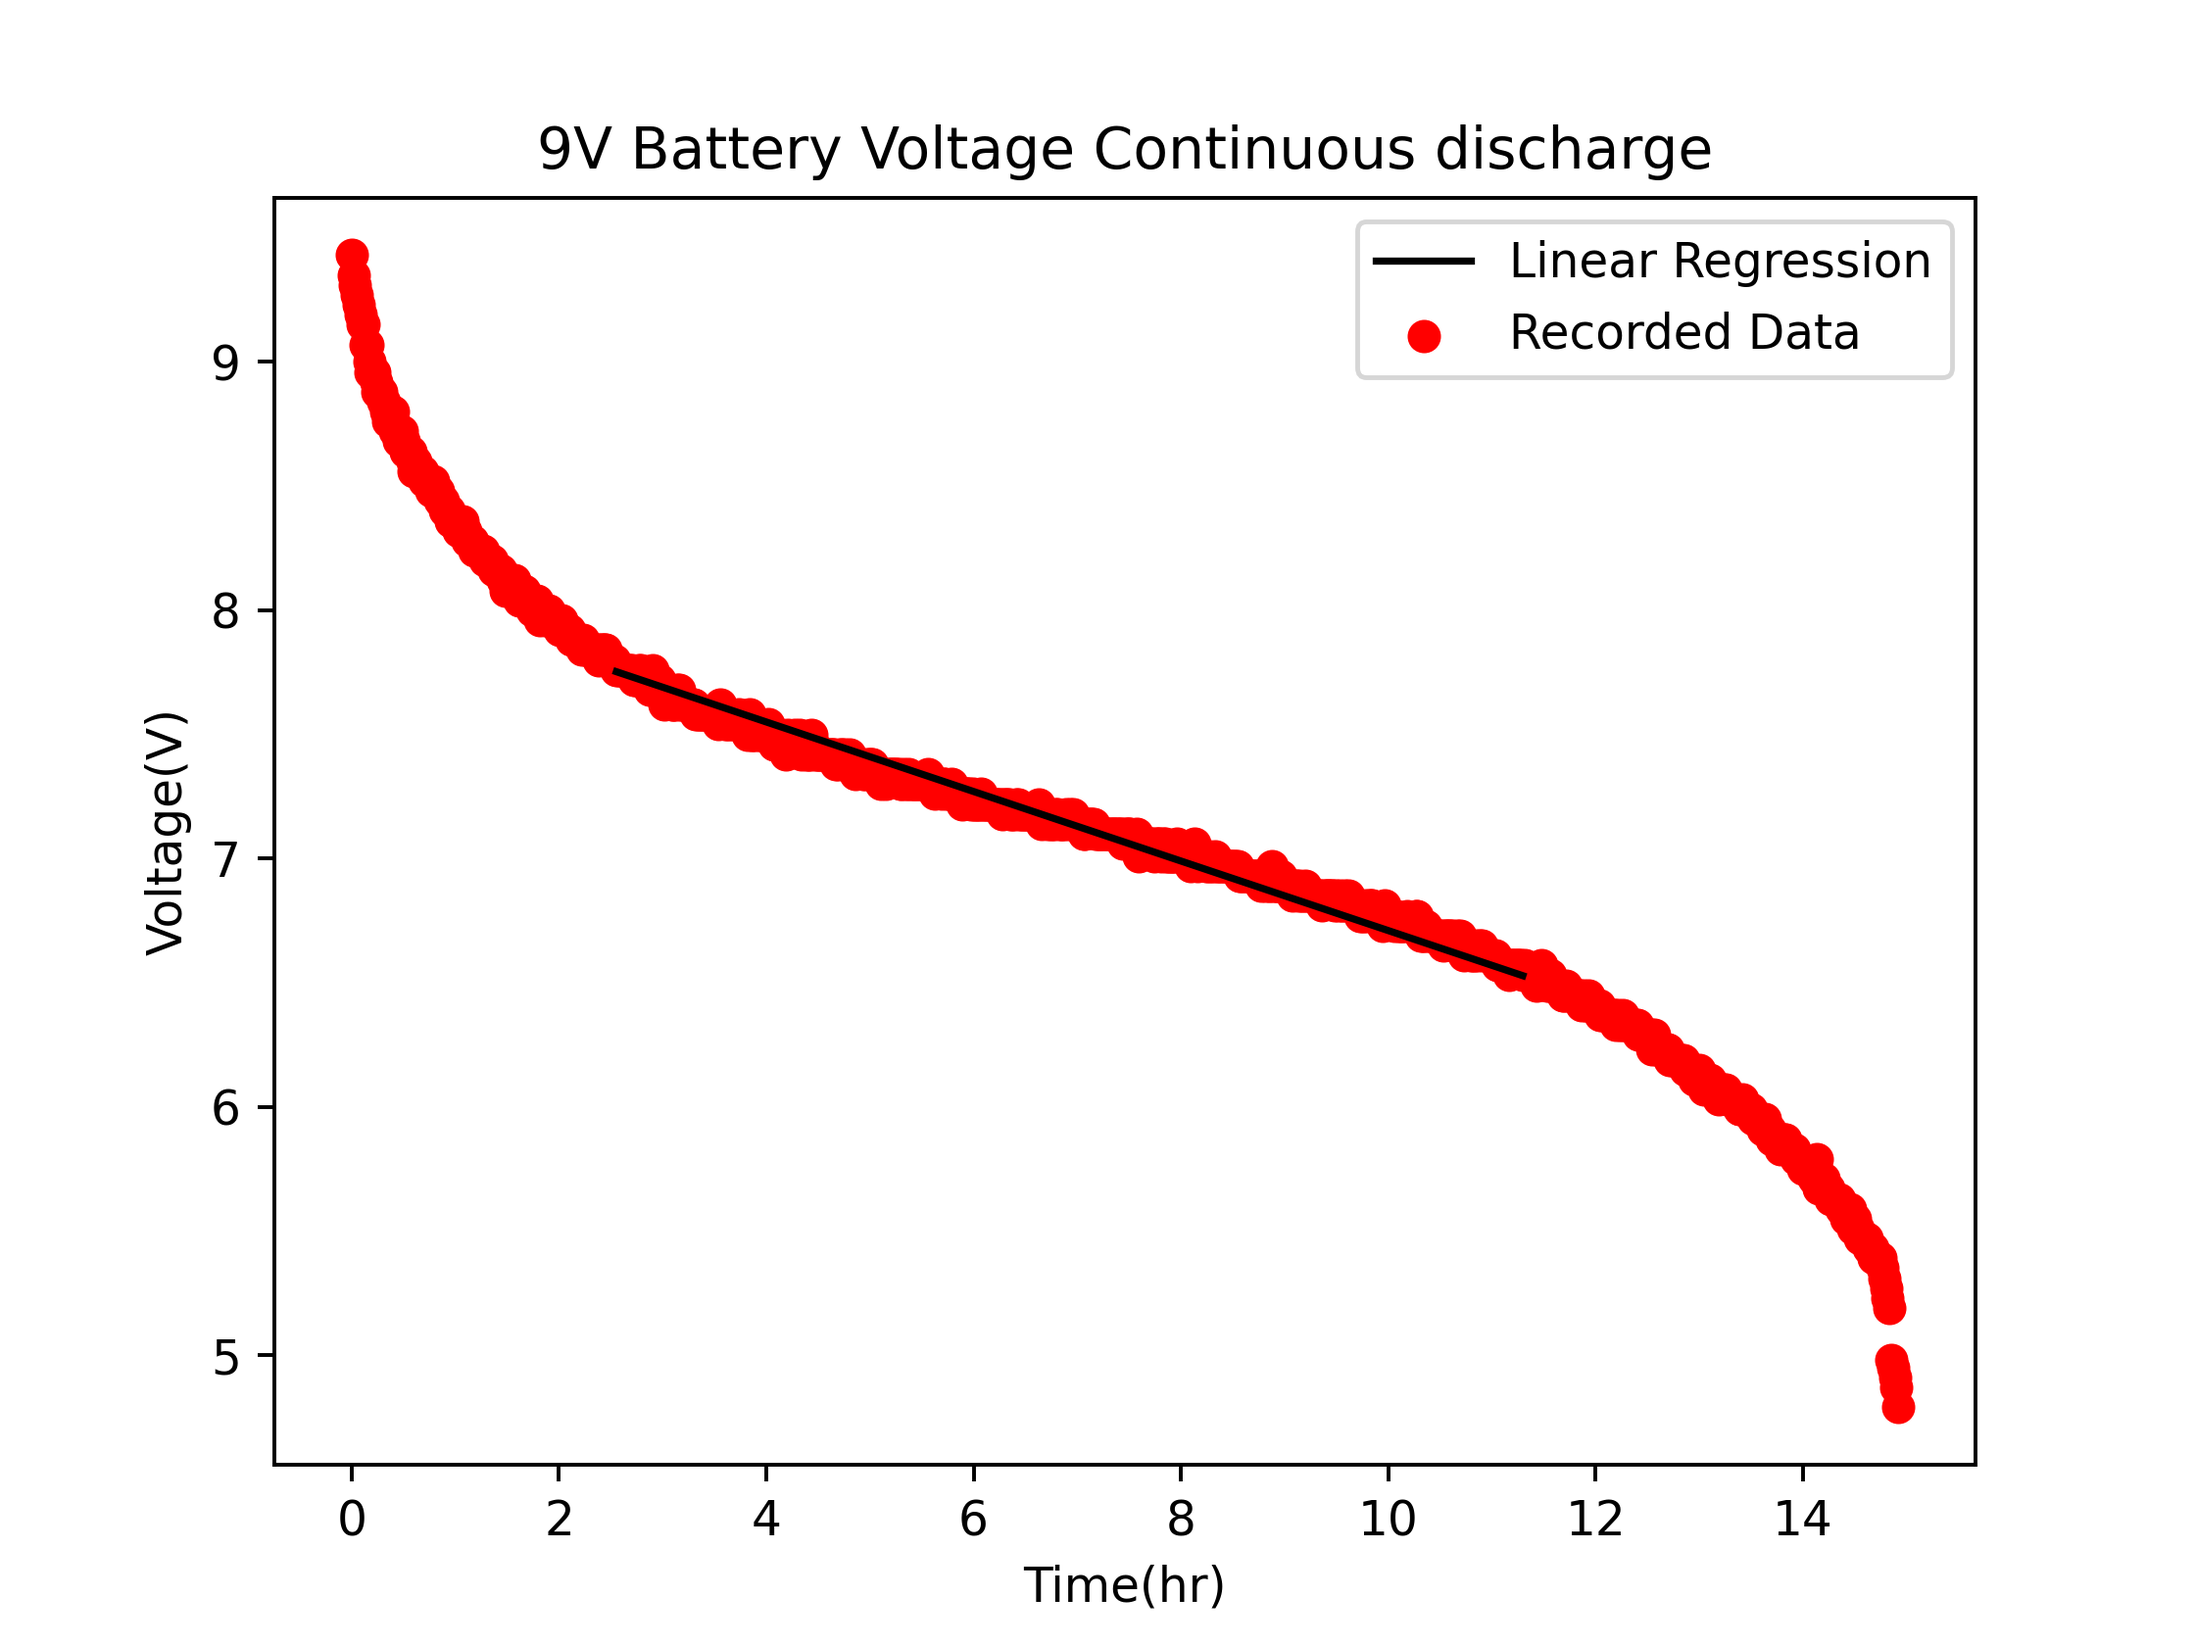
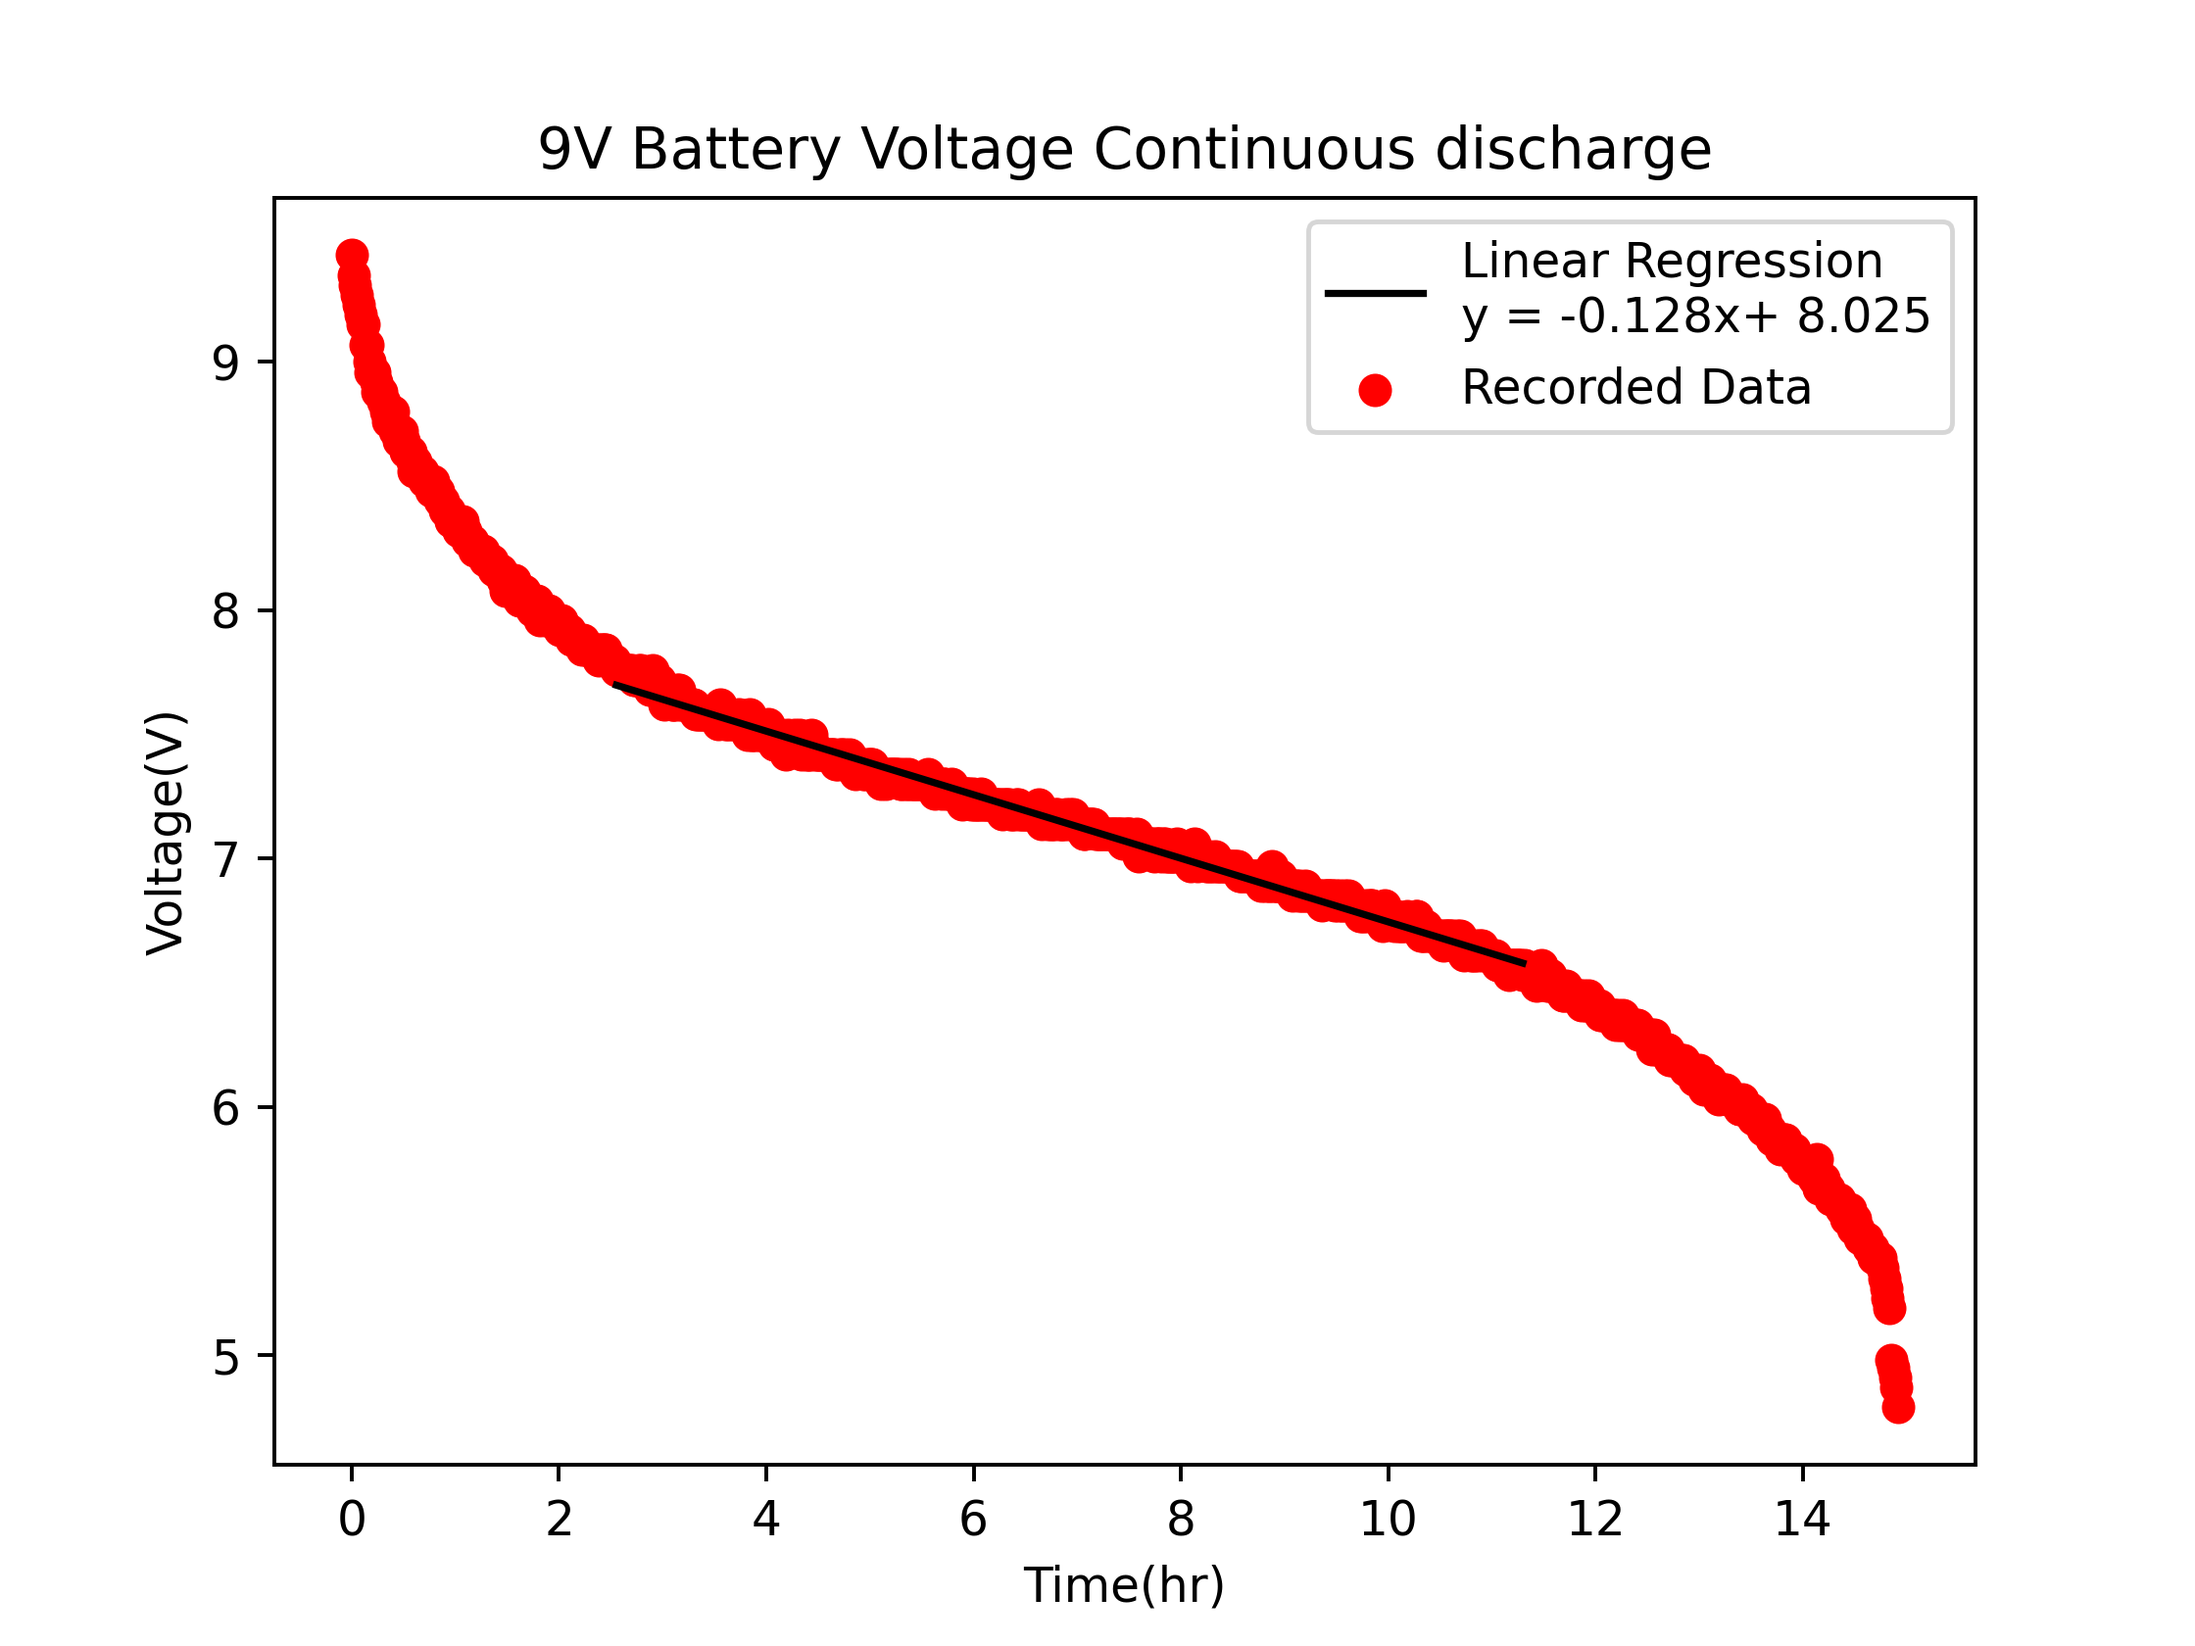
Revised comments in .py files. Added linear regression equation to graph. April 15.

diff --git a/cpproject/exam/ex1graph.py b/cpproject/exam/ex1graph.py
@@ -1,38 +1,39 @@
 #Graphing
 #using the ADC0831 to measure Voltage of 9v battery
 #Yelaman Zhenis
-#2/4/19
-
-
-
 import matplotlib.pyplot as plt
 import numpy as np
 #define data arrays
 time_data=[]
-temp_data=[]
+volt_data=[]
 #read in the data
 lines= np.loadtxt('exam1.txt',delimiter=',')
 for line in lines:
-    time_data.append(line[0]/3600)#the first item in row is the time
-    temp_data.append(line[1])#the 2nd item in row in the temp
-#exponential decay function
+    time_data.append(line[0]/3600)#the first item in row is the time converted to seconds
+    volt_data.append(line[1])#the 2nd item in row is the voltage data
+#linear regression function
 def my_func(x, a, b):
     return b*x+a
-#have to do the following to use the time data in the exponential function
+#linear regression slope and addition term calculation for continuous charge 
 fit_time_data=np.array(time_data)
-fit_time = fit_time_data[153:678]
-
-#make a plot
+fit_volts_data = np.array(volt_data)
+x = fit_time_data[153:678]
+y = fit_volts_data[153:678]
+a0 = (sum(np.square(x))*sum(y)-sum(x*y)*sum(x))/(len(x)*sum(np.square(x))-(sum(\
+x))**2)
+a1 = (len(x)*sum(x*y) - sum(x)*sum(y))/(len(x)*sum(np.square(x))-(sum(x))**2)
+a0 = round(a0,3)
+a1 = round(a1,3)
+#make a plot                                                                
 fig=plt.figure()
 ax=fig.add_subplot(1,1,1)
-#make an xy scatter plot
-plt.scatter(time_data,temp_data,color='red', label='Recorded Data')
-#add the linear regression
-plt.plot(fit_time, my_func(fit_time, 8.11, -0.14), color = 'black', label = 'Linear Regression') 
+#make an xy scatter plot                                                       
+plt.scatter(time_data,volt_data,color='red', label='Recorded Data')
+#add the linear regression                                                     
+plt.plot(x, my_func(x, a0, a1), color = 'black', label = 'Linear Regression'+'\n'+'y = %.3fx+ %.3f' %(a1,a0))
 #label the axes etc
 ax.set_xlabel('Time(hr)')
 ax.set_ylabel('Voltage(V)')
 ax.set_title('9V Battery Voltage Continuous discharge')
 plt.legend(loc = 'upper right')
 plt.savefig('ex1test.png', dpi = 350)
-    

diff --git a/cpproject/exam/exam1.py b/cpproject/exam/exam1.py
@@ -1,7 +1,6 @@
 #Exam 1
 #using the ADC0831 to measure Voltage of the 9V Battery
 #Yelaman Zhenis
-#2/17/19
 
 import RPi.GPIO as GPIO
 import time
@@ -26,22 +25,16 @@ def readADC():
     d=''
     #set the cs pin low(starts conversation)
     GPIO.output(CS, False)
-    #one clock pulse
-    #set the CLK pin low
+    #setting one clock pulse
     GPIO.output(CLK, False)
-    #set the CLK pin high
     GPIO.output(CLK, True)
-    #set the CLK pin low
     GPIO.output(CLK, False)
     #end clock pulse
     #now to read the data synced to more clock pulses
     for n in range(0,8):#read in 8 bits, 0-7
         #one clock pulse
-        #set the CLK pin low
         GPIO.output(CLK, False)
-        #set the CLK pin high
         GPIO.output(CLK, True)
-        #set the CLK pin low
         GPIO.output(CLK, False)
         #end clock pulse
         #list to the DO pin for a bit
@@ -102,7 +95,7 @@ try:
         my_volts = calc_volts(voltage_data[n])
         #write the data as comma delimited
         file.write(str(time_data[n]) + ',' + str(my_volts) + '\n')
-    #always close the file you are using!
+    #close the file
     file.close()
 except KeyboardInterrupt:
     #here you any code or commands to run before the programexits when you press CTRL+C
